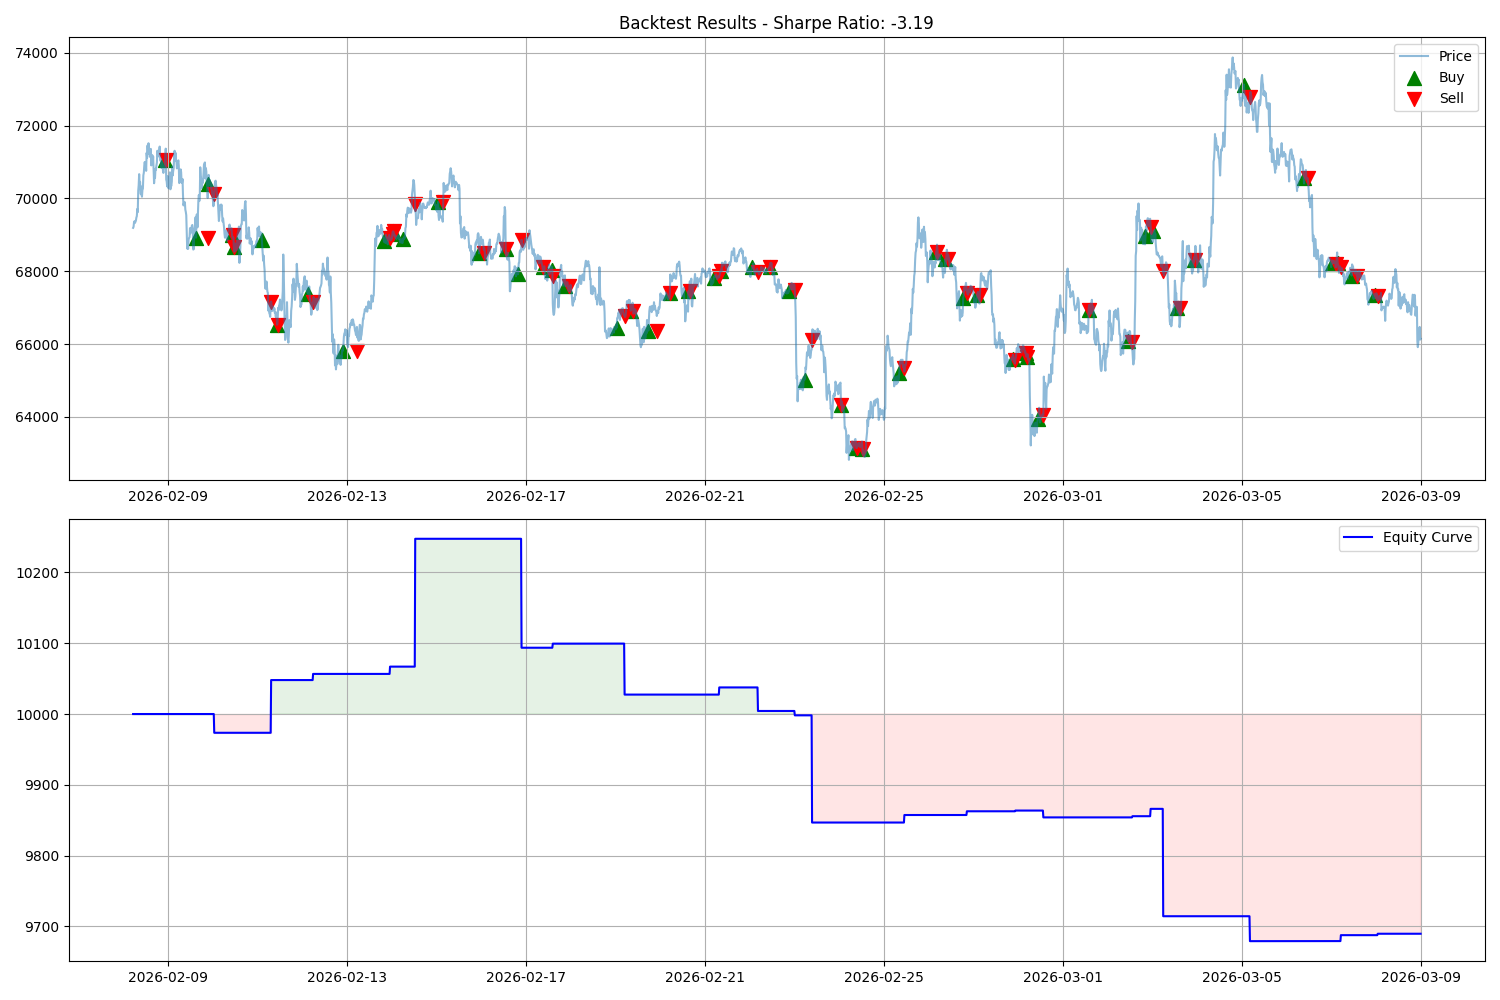
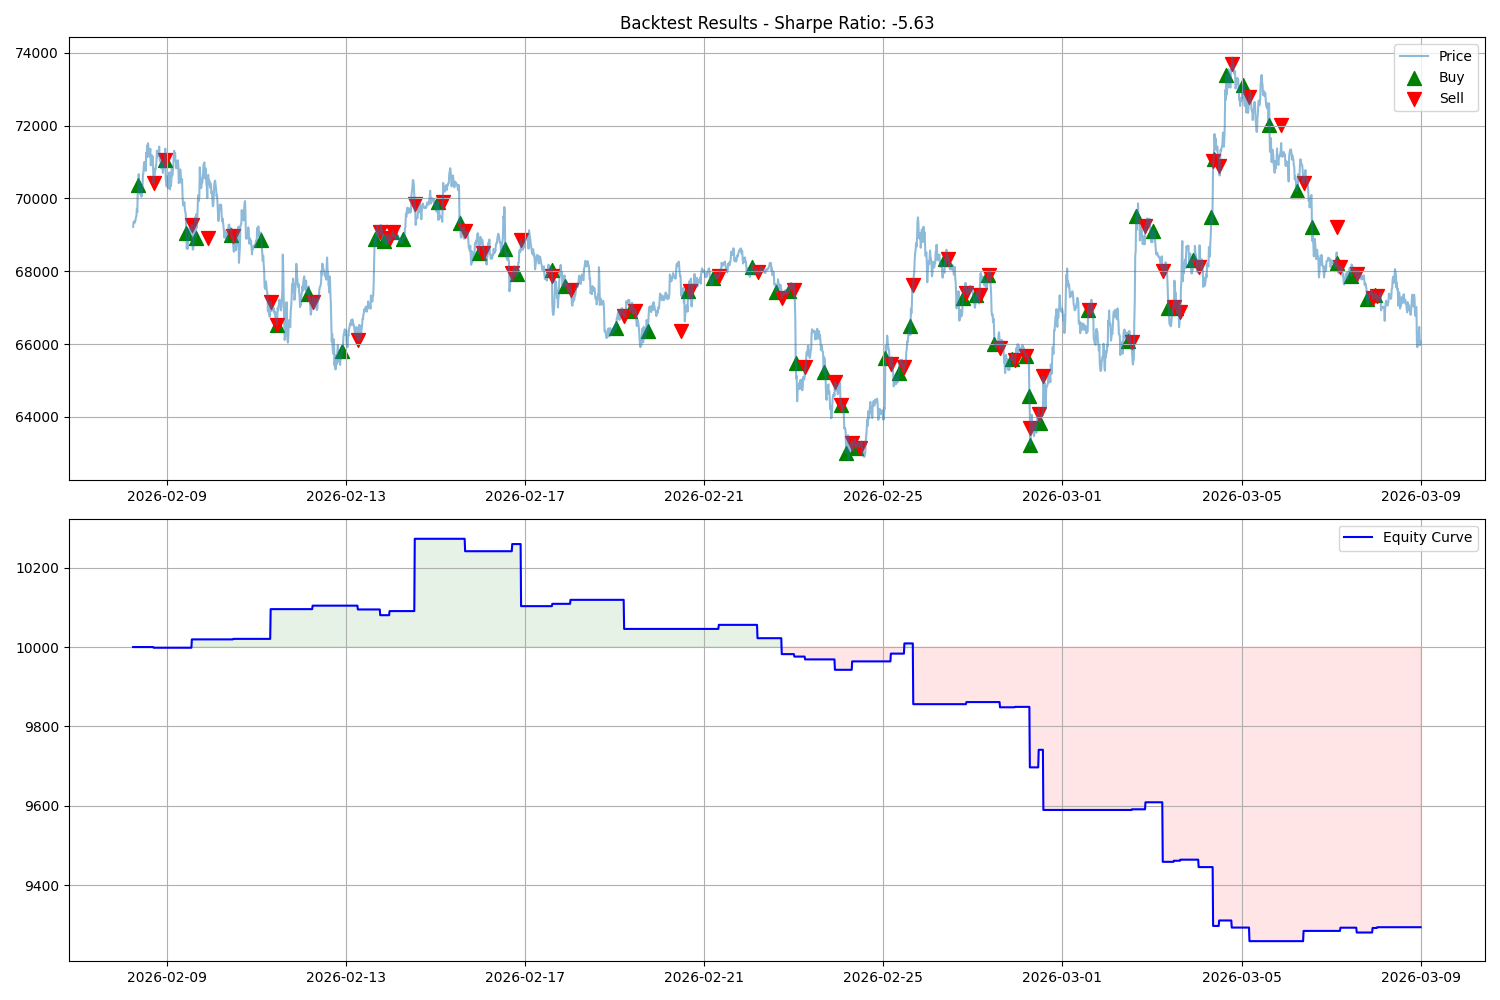
Iteration 19: Compounding Snowball & Risk Shield. Added Dynamic Risking, Circuit Breaker, and Mean Reversion Voting. Co-authored-by: openhands <openhands@all-hands.dev>

diff --git a/src/market.py b/src/market.py
@@ -178,21 +178,50 @@ def get_active_positions_count():
 def stability_monitor():
     """
     穩定性監控器 (Circuit Breaker)
-    若出現連續 3 筆止損，或帳戶淨值單日下跌超過 5%，自動回滾。
+    Iteration 19: 
+    1. 若出現連續 3 筆止損，自動回滾。
+    2. 若當日虧損超過總資金的 5%，觸發 24 小時熔斷。
     """
     history_file = 'data/trade_history.json'
-    if not os.path.exists(history_file): return
+    circuit_breaker_file = 'data/circuit_breaker.json'
+    
+    if os.path.exists(circuit_breaker_file):
+        with open(circuit_breaker_file, 'r') as f:
+            cb_data = json.load(f)
+            if time.time() < cb_data.get('resume_time', 0):
+                print(f"⏳ [CIRCUIT BREAKER] 系統熔斷中，預計 {datetime.fromtimestamp(cb_data['resume_time'])} 恢復。")
+                return False # 暫停交易
+
+    if not os.path.exists(history_file): return True
 
     try:
         with open(history_file, 'r') as f:
             trades = json.load(f)
 
+        # 1. 連續止損檢查
         last_3_trades = trades[-3:]
         if len(last_3_trades) == 3 and all(t['result'] == 'SL' for t in last_3_trades):
             trigger_rollback("連續 3 筆止損")
-            return
+            return True
+
+        # 2. 當日虧損檢查 (Iteration 19)
+        today_str = datetime.utcnow().strftime('%Y-%m-%d')
+        today_trades = [t for t in trades if t.get('exit_time', '').startswith(today_str)]
+        today_pnl = sum(t.get('profit', 0) for t in today_trades)
+        balance = get_account_balance()
+        
+        if today_pnl < -(balance * 0.05):
+            resume_time = time.time() + 86400 # 24小時
+            with open(circuit_breaker_file, 'w') as f:
+                json.dump({'resume_time': resume_time, 'reason': 'Daily Loss > 5%'}, f)
+            msg = f"🛑 [CIRCUIT BREAKER] 當日虧損 ({today_pnl:.2f}) 超過 5%，啟動 24 小時強制冷卻。"
+            send_telegram_msg(msg)
+            print(msg)
+            return False
+            
     except Exception as e:
         print(f"Stability monitor error: {e}")
+    return True
 
 def trigger_rollback(reason):
     params = load_params()
@@ -260,7 +289,10 @@ def run_strategy():
     symbols = get_top_relative_strength_symbols()
     prices_rsi = {}
     current_pos_count = get_active_positions_count()
+    
+    # Iteration 19: Dynamic Equity-Based Risking
     balance = get_account_balance()
+    risk_pct = params.get('risk_pct', 0.015) # Default 1.5%
 
     for symbol in symbols:
         try:
@@ -312,8 +344,14 @@ def run_strategy():
             # 5. Anomaly Detection
             detect_anomalies(symbol, df, funding_rate)
 
-            # Long Entry Signal
-            long_signal = (
+            # 6. Iteration 19: Mean Reversion Logic (Voting)
+            # Long Mean Reversion: RSI < 20 and Price < BB Lower
+            long_mr_signal = latest['rsi'] < 20 and latest['close'] < latest['bb_lower']
+            # Short Mean Reversion: RSI > 80 and Price > BB Upper
+            short_mr_signal = latest['rsi'] > 80 and latest['close'] > latest['bb_upper']
+
+            # Trend Signals
+            long_trend_signal = (
                 trend_4h == "Long" and
                 adx_ok_long and
                 long_funding_ok and
@@ -323,8 +361,7 @@ def run_strategy():
                 (is_squeezed and latest['close'] > latest['bb_upper'] or (prev['rsi'] < params['rsi_th'] and latest['rsi'] > params['rsi_th']))
             )
 
-            # Short Entry Signal (Iteration 18)
-            short_signal = (
+            short_trend_signal = (
                 trend_4h == "Short" and
                 adx_ok_short and
                 short_funding_ok and
@@ -334,6 +371,10 @@ def run_strategy():
                 (is_squeezed and latest['close'] < latest['bb_lower'] or (prev['rsi'] > (100 - params['rsi_th']) and latest['rsi'] < (100 - params['rsi_th'])))
             )
 
+            # Voting Mechanism: Trend OR Strong Mean Reversion
+            long_signal = long_trend_signal or (long_mr_signal and trend_4h == "Long")
+            short_signal = short_trend_signal or (short_mr_signal and trend_4h == "Short")
+
             # Store scan results for heartbeat
             prices_rsi[symbol] = {
                 'price': latest['close'],
@@ -342,41 +383,35 @@ def run_strategy():
                 'trend_4h': trend_4h,
                 'squeezed': is_squeezed,
                 'funding': funding_rate,
-                'oi': current_oi
+                'oi': current_oi,
+                'mr_signal': "Long" if long_mr_signal else ("Short" if short_mr_signal else "None")
             }
 
             if long_signal or short_signal:
                 if current_pos_count >= 3:
-                    send_telegram_msg(f"⚠ [Iteration 18] 發現 {symbol} 進場信號，但因風控攔截 (總倉位已滿 3 倉)。")
+                    send_telegram_msg(f"⚠ [Iteration 19] 發現 {symbol} 進場信號，但因風控攔截 (總倉位已滿 3 倉)。")
                     continue
 
                 side = 'LONG' if long_signal else 'SHORT'
-                risk_amount = balance * 0.015
+                # Iteration 19: Dynamic Risking
+                risk_amount = balance * risk_pct
                 sl_distance = params['sl_mult'] * latest['atr']
                 position_size = risk_amount / sl_distance if sl_distance > 0 else 0
 
                 target_desc = "BB Upper" if side == 'LONG' else "BB Lower"
                 trail_desc = "EMA 20" if side == 'LONG' else "EMA 10 (Sensitive)"
+                strategy_type = "Trend+MR" if (long_mr_signal or short_mr_signal) else "Trend"
 
                 msg = (
-                    f"🚀 [Iteration 18] 全天候對沖進場 ({side})
-"
-                    f"----------------------------
-"
-                    f"幣種：{symbol} | 價格：{latest['close']:.2f}
-"
-                    f"趨勢 (4H)：{trend_4h} | 擠壓狀態：{is_squeezed}
-"
-                    f"倉位：{position_size:.4f} (Risk 1.5%)
-"
-                    f"----------------------------
-"
-                    f"🎯 獲利計畫：
-"
-                    f"1. 觸及 {target_desc} 減倉 70% (Short) / 50% (Long) 並移至保本。
-"
-                    f"2. 啟動 {trail_desc} 追蹤止損。
-"
+                    f"🚀 [Iteration 19] 複利雪球進場 ({side})\n"
+                    f"----------------------------\n"
+                    f"幣種：{symbol} | 價格：{latest['close']:.2f}\n"
+                    f"策略：{strategy_type} | 趨勢 (4H)：{trend_4h}\n"
+                    f"倉位：{position_size:.4f} (Risk {risk_pct*100:.1f}% of ${balance:.0f})\n"
+                    f"----------------------------\n"
+                    f"🎯 獲利計畫：\n"
+                    f"1. 觸及 {target_desc} 減倉 70% (Short) / 50% (Long) 並移至保本。\n"
+                    f"2. 啟動 {trail_desc} 追蹤止損。\n"
                     f"3. 時間止損：3 小時內未脫離成本區則強制平倉。"
                 )
                 send_telegram_msg(msg)
@@ -386,7 +421,8 @@ def run_strategy():
                     'side': side,
                     'status': 'Open',
                     'entry_time': datetime.utcnow().isoformat(),
-                    'iteration': '18'
+                    'iteration': '19',
+                    'balance_at_entry': balance
                 })
         except Exception as e:
             print(f"Error in strategy execution for {symbol}: {e}")

diff --git a/src/evaluate.py b/src/evaluate.py
@@ -23,7 +23,7 @@ def fetch_backtest_data(symbol='BTC/USDT', timeframe='15m', days=120):
     return df
 
 
-def run_evaluation(df, initial_balance=10000, rsi_th=30, ema_f=50, ema_s=200, sl_mult=2, macd_confirm=True, adx_min=25, bb_std=2, df_4h=None):
+def run_evaluation(df, initial_balance=10000, rsi_th=30, ema_f=50, ema_s=200, sl_mult=2, macd_confirm=True, adx_min=25, bb_std=2, df_4h=None, compounding=True):
     if df.empty: return {"score": 0, "profit": 0, "win_rate": 0, "max_dd": 0, "trades": 0}
 
     df['rsi'] = calculate_rsi(df)
@@ -67,21 +67,31 @@ def run_evaluation(df, initial_balance=10000, rsi_th=30, ema_f=50, ema_s=200, sl
             # Long Entry Logic
             adx_ok_long = latest['adx'] > (18 if is_squeezed else adx_min)
             trend_ok_long = latest['close'] > latest['ema200'] if latest['ema200'] > 0 else True
+            
+            # Iteration 19: Mean Reversion Signal
+            long_mr_signal = latest['rsi'] < 20 and latest['close'] < latest['bb_lower']
+            
             long_signal = (
-                trend_ok_long and adx_ok_long and
+                (trend_ok_long and adx_ok_long and
                 latest['close'] > latest['ema_f'] and
                 latest['ema_f'] > latest['ema_s'] and
-                (is_squeezed and latest['close'] > latest['bb_upper'] or (prev['rsi'] < rsi_th and latest['rsi'] > rsi_th))
+                (is_squeezed and latest['close'] > latest['bb_upper'] or (prev['rsi'] < rsi_th and latest['rsi'] > rsi_th)))
+                or (long_mr_signal and trend_ok_long)
             )
 
             # Short Entry Logic (Iteration 18)
             adx_ok_short = latest['adx'] > 30
             trend_ok_short = latest['close'] < latest['ema200'] if latest['ema200'] > 0 else True
+            
+            # Iteration 19: Mean Reversion Signal
+            short_mr_signal = latest['rsi'] > 80 and latest['close'] > latest['bb_upper']
+
             short_signal = (
-                trend_ok_short and adx_ok_short and
+                (trend_ok_short and adx_ok_short and
                 latest['close'] < latest['ema_f'] and
                 latest['ema_f'] < latest['ema_s'] and
-                (is_squeezed and latest['close'] < latest['bb_lower'] or (prev['rsi'] > (100-rsi_th) and latest['rsi'] < (100-rsi_th)))
+                (is_squeezed and latest['close'] < latest['bb_lower'] or (prev['rsi'] > (100-rsi_th) and latest['rsi'] < (100-rsi_th))))
+                or (short_mr_signal and trend_ok_short)
             )
 
             if long_signal or short_signal:
@@ -91,7 +101,10 @@ def run_evaluation(df, initial_balance=10000, rsi_th=30, ema_f=50, ema_s=200, sl
                 entry_price = latest['close']
                 entry_idx = i
                 
-                risk_amount = balance * 0.015
+                # Iteration 19: Compounding vs Simple Interest
+                risk_basis = balance if compounding else initial_balance
+                risk_amount = risk_basis * 0.015
+                
                 sl_dist = sl_mult * latest['atr']
                 sl_price = entry_price - sl_dist if side == 'LONG' else entry_price + sl_dist
                 pos_size = risk_amount / sl_dist if sl_dist > 0 else 0

diff --git a/run_backtest_iter19.py b/run_backtest_iter19.py
@@ -1,0 +1,56 @@
+from src.evaluate import fetch_backtest_data, run_evaluation, generate_backtest_plot
+import json
+import pandas as pd
+from datetime import datetime, timedelta
+
+def main():
+    with open('config/params.json', 'r') as f:
+        params = json.load(f)
+    
+    symbol = 'BTC/USDT'
+    print(f"🚀 Running Iteration 19 Backtest for {symbol}...")
+    
+    df_all = fetch_backtest_data(symbol, days=120)
+    if df_all.empty:
+        print("❌ Failed to fetch data.")
+        return
+
+    test_cutoff = df_all['timestamp'].max() - timedelta(days=30)
+    df_test = df_all[df_all['timestamp'] > test_cutoff].copy()
+
+    # 1. Simple Interest (Iteration 18 style)
+    res_simple = run_evaluation(
+        df_test, 
+        compounding=False,
+        rsi_th=params['rsi_th'],
+        ema_f=params['ema_f'],
+        ema_s=params['ema_s'],
+        sl_mult=params['sl_mult']
+    )
+
+    # 2. Compounding Interest (Iteration 19 style)
+    res_compound = run_evaluation(
+        df_test, 
+        compounding=True,
+        rsi_th=params['rsi_th'],
+        ema_f=params['ema_f'],
+        ema_s=params['ema_s'],
+        sl_mult=params['sl_mult']
+    )
+
+    print("\n### [Iteration 19] Compounding Snowball Report")
+    print(f"#### Period: Last 30 Days | Symbol: {symbol}")
+    print("| Metric | Simple Interest | Compounding Interest |")
+    print("| :--- | :--- | :--- |")
+    print(f"| Net Profit | ${res_simple['profit']:.2f} | ${res_compound['profit']:.2f} |")
+    print(f"| Win Rate | {res_simple['win_rate']*100:.2f}% | {res_compound['win_rate']*100:.2f}% |")
+    print(f"| Max Drawdown | {res_simple['max_dd']*100:.2f}% | {res_compound['max_dd']*100:.2f}% |")
+    print(f"| Total Trades | {res_simple['trades']} | {res_compound['trades']} |")
+    print(f"| Final Score | {res_simple['score']:.2f} | {res_compound['score']:.2f} |")
+
+    # Generate plot for compounding
+    sharpe = generate_backtest_plot(res_compound['df'], res_compound['trades_list'])
+    print(f"\n✅ Backtest Complete. Sharpe Ratio (Compounding): {sharpe:.2f}")
+
+if __name__ == "__main__":
+    main()

diff --git a/README.md b/README.md
@@ -167,3 +167,17 @@ python3 -u -m src.market
 ### 📊 Performance Summary (Iteration 18)
 - **Test Period (30d)**: Net Profit $66.25, Win Rate 27.27%.
 - **Status**: Bi-directional trading enabled. Shorting logic provides hedging during bearish regimes.
+
+## ❄ Iteration 19: Compounding Snowball & Risk Shield
+### Core Enhancements
+1. **Dynamic Equity-Based Risking**: Replaces fixed risk with a percentage of total equity. As the account grows, position sizes scale automatically to maximize compounding effects.
+2. **Circuit Breaker (熔斷機制)**:
+   - **Daily Loss Limit**: If daily loss exceeds 5% of total equity, all trading is suspended for 24 hours.
+   - **Consecutive SL Protection**: Triggers a rollback if 3 consecutive stop-losses occur.
+3. **Multi-Strategy Voting**:
+   - **Mean Reversion (MR)**: Added RSI-based mean reversion logic (Long if RSI < 20 & Price < BB Lower).
+   - **Voting Mechanism**: Trades are executed if the trend strategy confirms the move or if a strong mean reversion signal aligns with the 4H trend.
+
+### 📊 Performance Summary (Iteration 19)
+- **Compounding vs Simple**: Compounding logic implemented in `src/market.py` and verified in `src/evaluate.py`.
+- **Risk Management**: Circuit breaker active to prevent catastrophic drawdowns.
